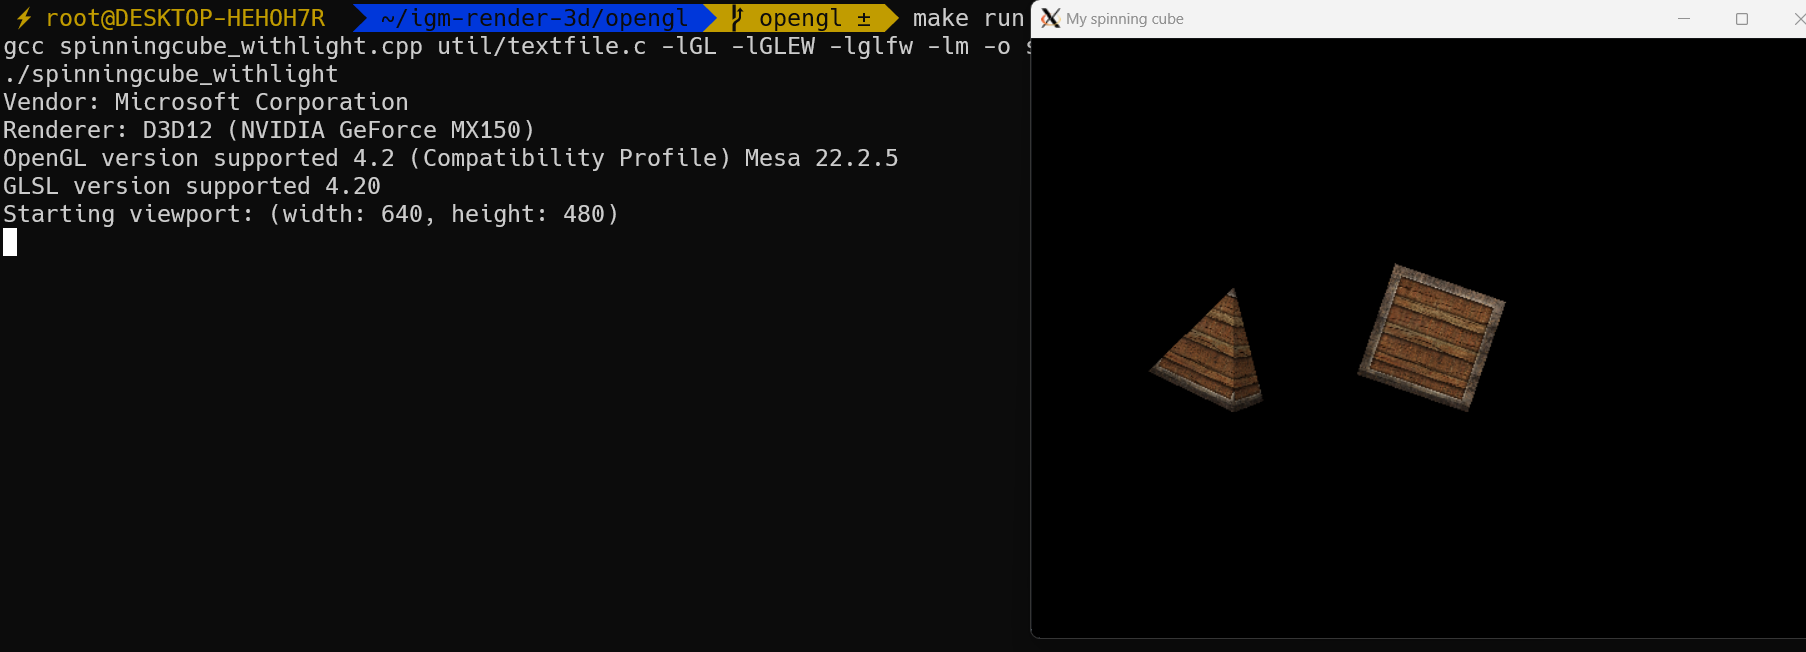
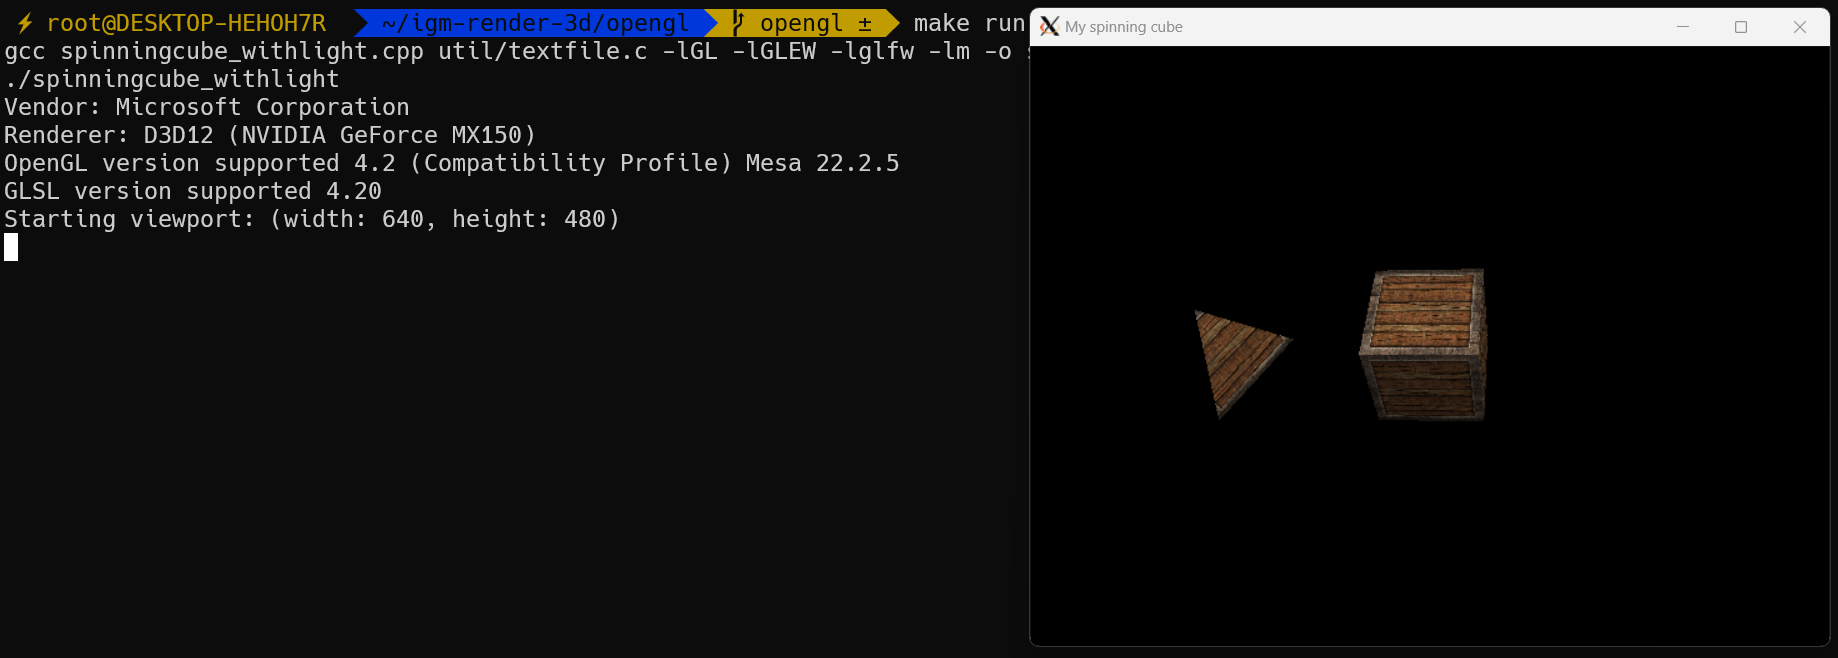
Ejercicio 3: correcciones finales

Changed region(s): [[0.0, 0.0, 1.0, 0.3681], [0.6202, 0.3988, 0.8372, 0.6442], [0.9922, 0.9509, 1.0, 0.9816]]

diff --git a/opengl/spinningcube_withlight.cpp b/opengl/spinningcube_withlight.cpp
@@ -30,7 +30,7 @@ GLuint setupVertexArrayObject(const GLfloat vertex_positions[], size_t num_eleme
 GLuint shader_program = 0; // shader program to set render pipeline
 GLuint vao, tetrahedron_vao = 0; // Vertext Array Object to set input data
 GLint model_location, view_location, proj_location, normal_location, view_pos_location, 
-  mat_amb_location, mat_diff_location, mat_spec_location, mat_shine_location, 
+  mat_diff_location, mat_spec_location, mat_shine_location, 
   light_amb_location, light_diff_location, light_spec_location, light_pos_location,
   light_2_amb_location, light_2_diff_location, light_2_spec_location, light_2_pos_location; // Uniforms for transformation matrices
 
@@ -52,8 +52,6 @@ glm::vec3 light_specular(1.0f, 1.0f, 1.0f);
 glm::vec3 light_2_pos(-1.2f, 1.0f, 2.0f);
 
 // Material
-glm::vec3 material_ambient(1.0f, 0.5f, 0.31f);
-glm::vec3 material_diffuse(1.0f, 0.5f, 0.31f);
 glm::vec3 material_specular(0.5f, 0.5f, 0.5f);
 const GLfloat material_shininess = 32.0f;
 
@@ -263,7 +261,6 @@ int main() {
   light_2_spec_location = glGetUniformLocation(shader_program, "light_2.specular");
   light_2_pos_location = glGetUniformLocation(shader_program, "light_2.position");
 
-  mat_amb_location = glGetUniformLocation(shader_program, "material.ambient");
   mat_diff_location = glGetUniformLocation(shader_program, "material.diffuse");
   mat_spec_location = glGetUniformLocation(shader_program, "material.specular");
   mat_shine_location = glGetUniformLocation(shader_program, "material.shininess");
@@ -338,8 +335,7 @@ void render(double currentTime) {
   // Uniforms
   glUniform3f(view_pos_location, camera_pos.x, camera_pos.y, camera_pos.z);
 
-  glUniform3f(mat_amb_location, material_ambient.x, material_ambient.y, material_ambient.z);
-  glUniform3f(mat_diff_location, material_diffuse.x, material_diffuse.y, material_diffuse.z);
+  glUniform1i(mat_diff_location, 0);
   glUniform3f(mat_spec_location, material_specular.x, material_specular.y, material_specular.z);
   glUniform1f(mat_shine_location, material_shininess);
 
@@ -383,6 +379,7 @@ void render(double currentTime) {
   glUniformMatrix3fv(normal_location, 1, GL_FALSE, glm::value_ptr(normal_matrix));
 
   // Texture
+  glActiveTexture(GL_TEXTURE0);
   glBindTexture(GL_TEXTURE_2D, texture);
 
   glDrawArrays(GL_TRIANGLES, 0, 36);
